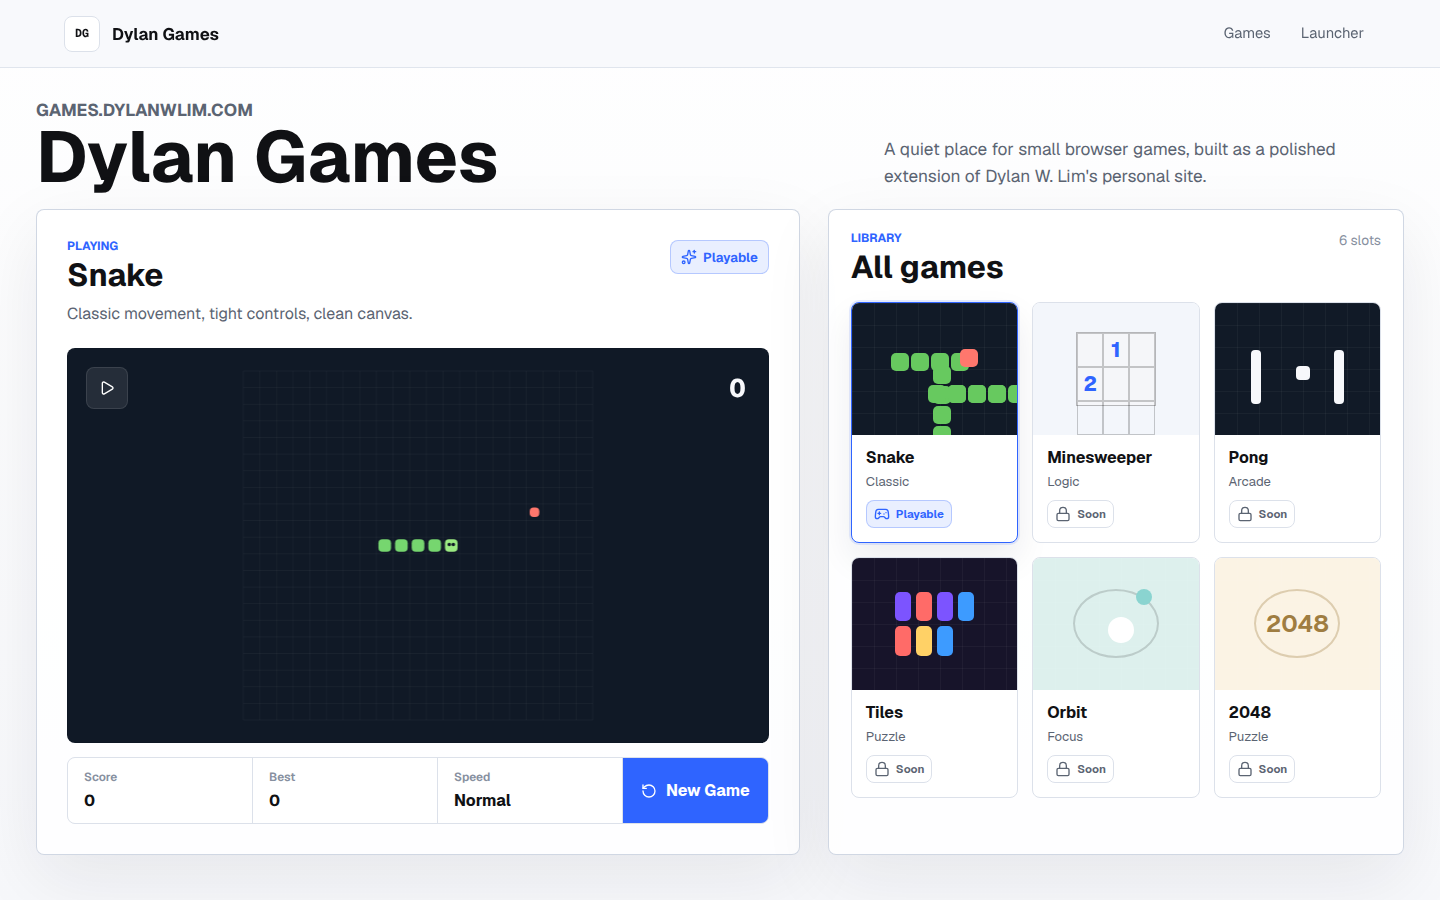
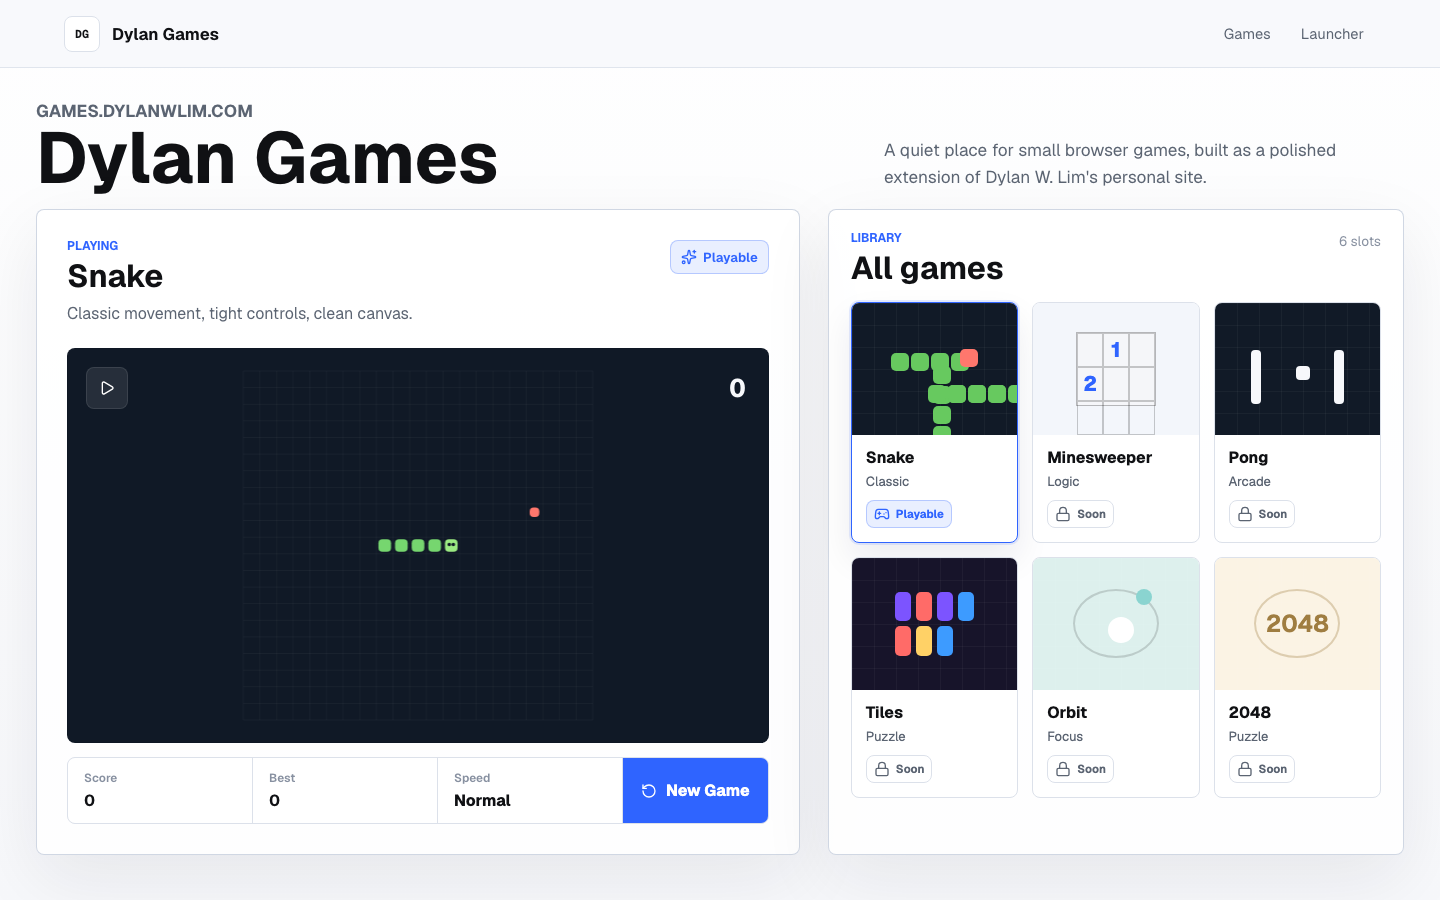
Pause public docs automation

diff --git a/setup.md b/setup.md
@@ -14,9 +14,9 @@
 ## How These Docs Stay Current
 
 - Source guide files live under `docs-public/`.
-- The publish workflow runs after main-branch updates, by manual dispatch, and once per day.
-- The workflow captures a fresh homepage screenshot before publishing.
-- The workflow publishes only the approved guide files and homepage screenshot asset.
+- Public docs publishing is manual while automatic publishing is paused.
+- Each refresh should capture a current homepage screenshot before publishing.
+- Publishing uses only the approved guide files and homepage screenshot asset.
 
 ## Feedback
 

diff --git a/changelog.md b/changelog.md
@@ -1,5 +1,10 @@
 # Changelog
 
+## 2026-05-31
+
+- Paused automatic public-docs publishing from main-branch updates and the daily schedule.
+- Kept manual publish workflow support for reviewed public-docs refreshes.
+
 ## 2026-05-30
 
 - Refreshed the public docs around the current public Dylan Games surface.

diff --git a/build-and-run.md b/build-and-run.md
@@ -25,6 +25,6 @@ npm run dev
 npm run validate
 ```
 
-## Automated Public Docs
+## Public Docs Updates
 
-The publish workflow runs on main-branch updates, manual dispatch, and a daily schedule. It refreshes `assets/homepage.png`, validates the public guide set, and publishes the files to the public docs repository.
+Public docs updates are manual while automatic publishing is paused. A maintainer can run the publish workflow when the approved guide files and screenshot should be mirrored to the public docs repository.

diff --git a/roadmap.md b/roadmap.md
@@ -6,8 +6,8 @@ This roadmap covers public-facing guide and user-surface work only.
 
 - Keep Snake stable and responsive across desktop and touch devices.
 - Keep Discover and genre browsing aligned with the current public catalog.
-- Refresh public docs and screenshots through the publish workflow.
+- Refresh public docs and screenshots when public docs are updated.
 
 ## Documentation Rule
 
-When a user-visible public flow changes, update the matching guide page and changelog entry in the same source-repo pass. The daily workflow will still refresh the homepage screenshot, but guide text should describe only behavior that is actually available to public users.
+When a user-visible public flow changes, update the matching guide page and changelog entry in the same source-repo pass. Guide text should describe only behavior that is actually available to public users.

diff --git a/README.md b/README.md
@@ -46,4 +46,4 @@ The public hub is live with Snake, New Game, keyboard/on-screen controls, Discov
 
 ## Updates
 
-The public docs publish automatically from the source guide files. On every main-branch update and daily sync, the workflow refreshes the homepage screenshot, validates the public allowlist, checks guide text for credential-like patterns, and mirrors the result into this public docs repository.
+Public docs updates are reviewed from the source guide files before they are mirrored here. Each refresh keeps the homepage screenshot, approved guide set, and public changelog aligned with the current user-visible surface.